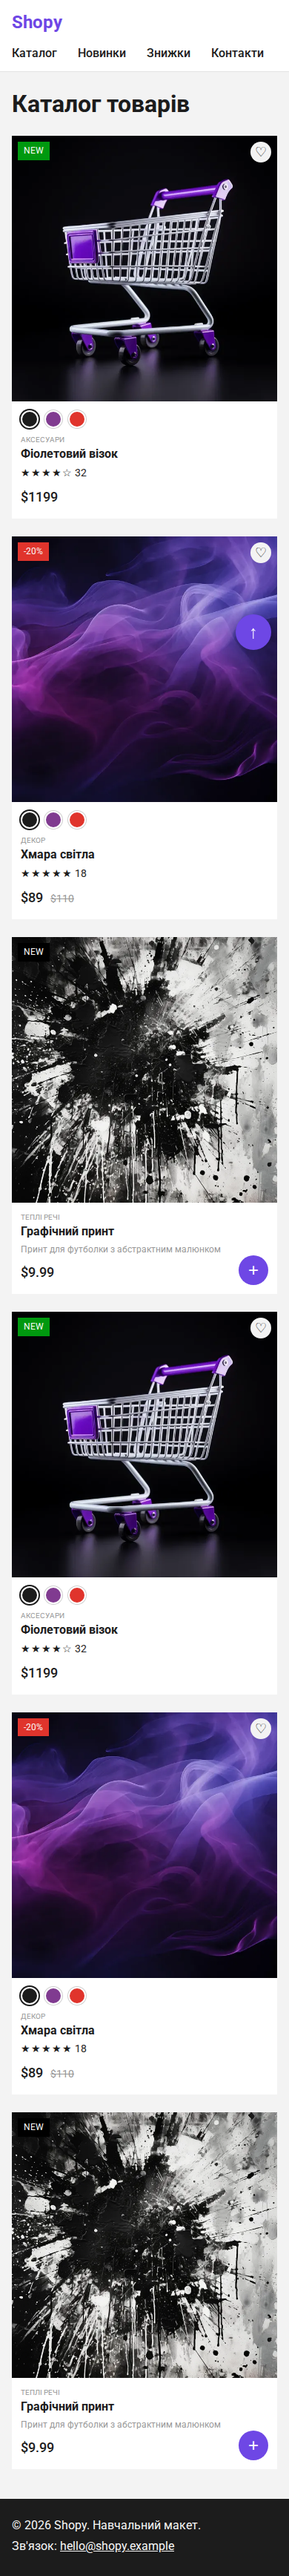
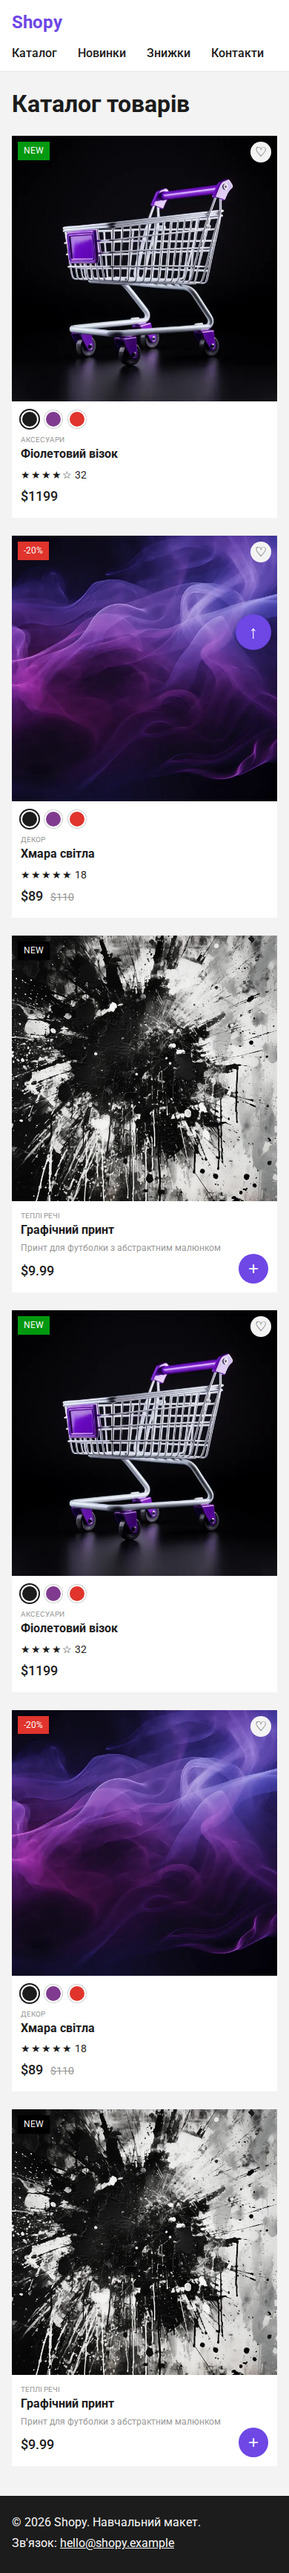
Рейтинг позиціонується через absolute, оновлено скріншоти й README

diff --git a/hw-07/index.html b/hw-07/index.html
@@ -68,13 +68,15 @@
               </li>
             </ul>
             <p class="card__category">Аксесуари</p>
-            <h2 class="card__title">Фіолетовий візок</h2>
-            <p class="rating">
-              <span class="rating__stars" aria-label="Рейтинг 4 з 5"
-                >★★★★☆</span
-              >
-              <span class="rating__count">32</span>
-            </p>
+            <div class="card__head">
+              <h2 class="card__title">Фіолетовий візок</h2>
+              <p class="rating">
+                <span class="rating__stars" aria-label="Рейтинг 4 з 5"
+                  >★★★★☆</span
+                >
+                <span class="rating__count">32</span>
+              </p>
+            </div>
             <p class="price">$1199</p>
           </div>
         </article>
@@ -118,13 +120,15 @@
               </li>
             </ul>
             <p class="card__category">Декор</p>
-            <h2 class="card__title">Хмара світла</h2>
-            <p class="rating">
-              <span class="rating__stars" aria-label="Рейтинг 5 з 5"
-                >★★★★★</span
-              >
-              <span class="rating__count">18</span>
-            </p>
+            <div class="card__head">
+              <h2 class="card__title">Хмара світла</h2>
+              <p class="rating">
+                <span class="rating__stars" aria-label="Рейтинг 5 з 5"
+                  >★★★★★</span
+                >
+                <span class="rating__count">18</span>
+              </p>
+            </div>
             <p class="price">$89 <s class="price__old">$110</s></p>
           </div>
         </article>
@@ -192,13 +196,15 @@
               </li>
             </ul>
             <p class="card__category">Аксесуари</p>
-            <h2 class="card__title">Фіолетовий візок</h2>
-            <p class="rating">
-              <span class="rating__stars" aria-label="Рейтинг 4 з 5"
-                >★★★★☆</span
-              >
-              <span class="rating__count">32</span>
-            </p>
+            <div class="card__head">
+              <h2 class="card__title">Фіолетовий візок</h2>
+              <p class="rating">
+                <span class="rating__stars" aria-label="Рейтинг 4 з 5"
+                  >★★★★☆</span
+                >
+                <span class="rating__count">32</span>
+              </p>
+            </div>
             <p class="price">$1199</p>
           </div>
         </article>
@@ -242,13 +248,15 @@
               </li>
             </ul>
             <p class="card__category">Декор</p>
-            <h2 class="card__title">Хмара світла</h2>
-            <p class="rating">
-              <span class="rating__stars" aria-label="Рейтинг 5 з 5"
-                >★★★★★</span
-              >
-              <span class="rating__count">18</span>
-            </p>
+            <div class="card__head">
+              <h2 class="card__title">Хмара світла</h2>
+              <p class="rating">
+                <span class="rating__stars" aria-label="Рейтинг 5 з 5"
+                  >★★★★★</span
+                >
+                <span class="rating__count">18</span>
+              </p>
+            </div>
             <p class="price">$89 <s class="price__old">$110</s></p>
           </div>
         </article>

diff --git a/hw-07/style.css b/hw-07/style.css
@@ -221,9 +221,17 @@ main {
   color: #979797;
 }
 
-/* Рейтинг під назвою */
+/* Заголовок з рейтингом: рейтинг абсолютно під назвою */
+.card__head {
+  position: relative;
+  padding-bottom: 28px;
+}
+
 .rating {
-  margin: 0 0 8px;
+  position: absolute;
+  bottom: 4px;
+  left: 0;
+  margin: 0;
   font-size: 14px;
 }
 

diff --git a/hw-07/README.md b/hw-07/README.md
@@ -2,6 +2,8 @@
 
 Каталог товарів Shopy за макетом Free eCommerce Product Cards: три різні картки (зі знижкою, з бейджем NEW і спрощена з кнопкою «додати»), що повторюються у flex-сітці з `flex-wrap`. Бейджі, серце «в обране», вибір кольорів і кругла кнопка позиціонуються через `position: absolute` усередині картки з `position: relative`. Додано бонуси: sticky-шапка, кнопка «нагору» (`fixed`), hover-ефекти та одна колонка на мобільному.
 
+Третя картка (за макетом Style 4) серця не має: замість нього є кругла кнопка «додати».
+
 Макет у Figma закритий для читання, тому розміри, кольори й зображення взято з Penpot-файлу з умови.
 
 Як відкрити: відкрийте `hw-07/index.html` у браузері або перейдіть на GitHub Pages: https://kustymenko.github.io/my-web-course/hw-07/
